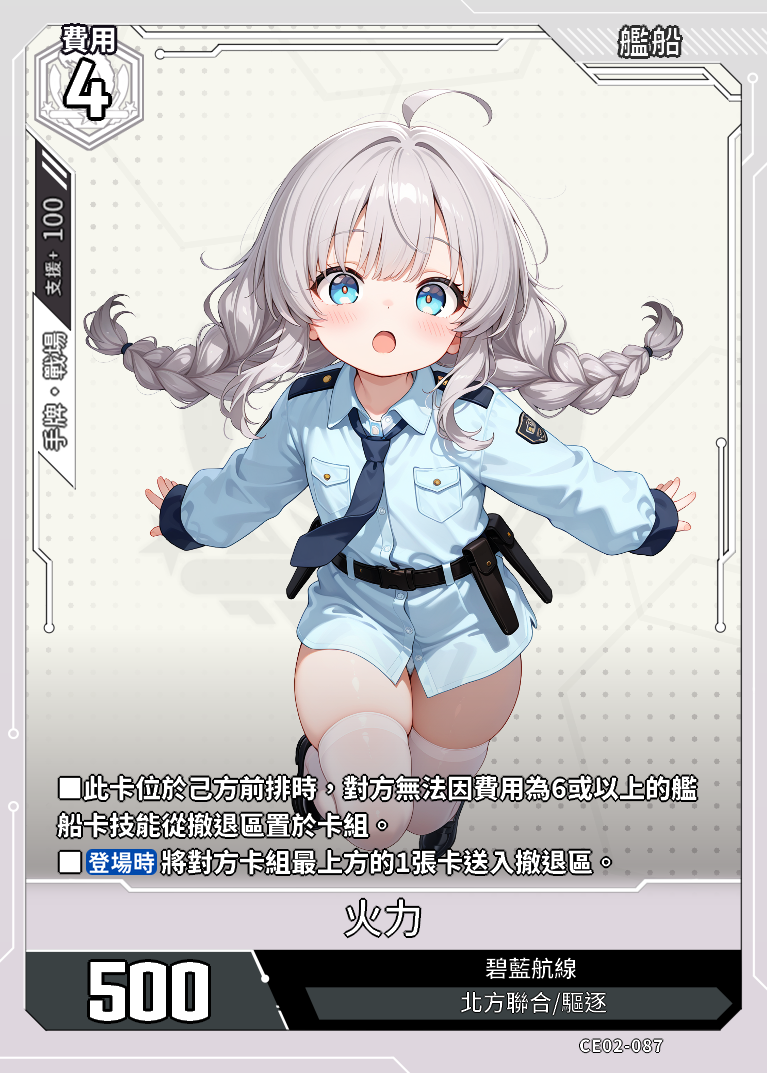
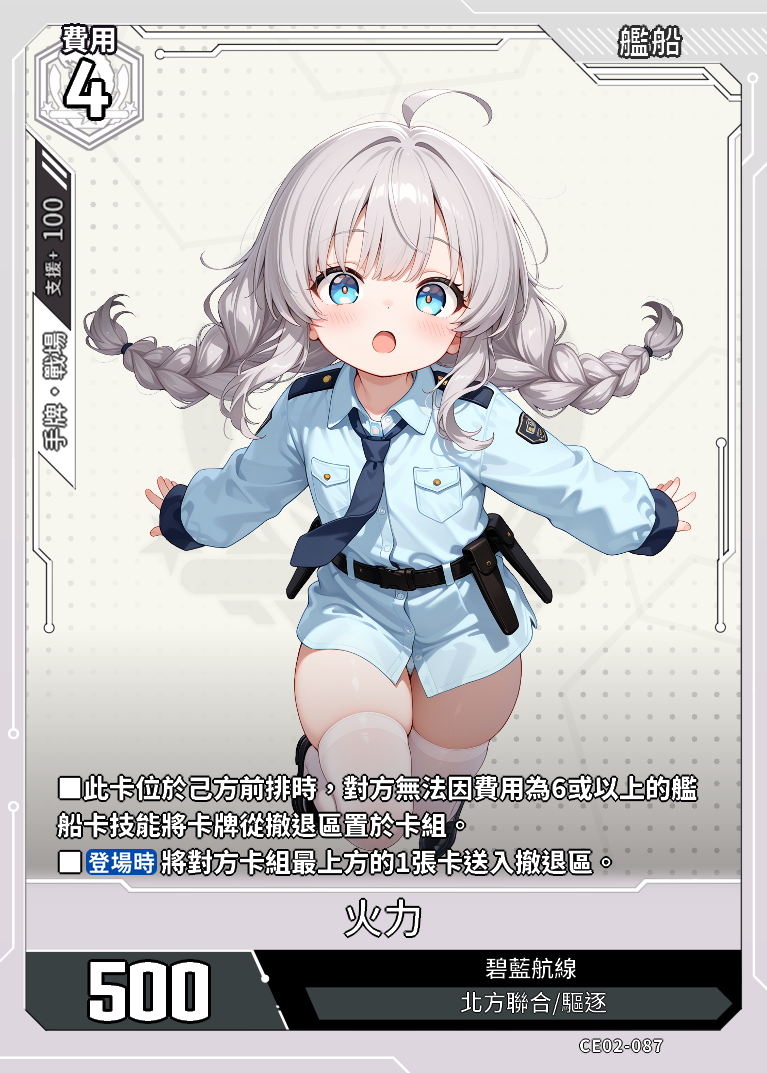
修錯字

Changed region(s): [[0.2099, 0.7381, 0.5997, 0.7996]]

diff --git a/data.js b/data.js
@@ -26143,7 +26143,7 @@ const cards = [
             "支援範圍": "手牌·戰場",
             "支援值": "100"
         },
-        "card_effect": "■此卡位於己方前排時，對方無法因費用為6或以上的艦船卡技能從撤退區置於卡組。■【登場時】將對方卡組最上方的1張卡送入撤退區。",
+        "card_effect": "■此卡位於己方前排時，對方無法因費用為6或以上的艦船卡技能將卡牌從撤退區置於卡組。■【登場時】將對方卡組最上方的1張卡送入撤退區。",
         "acquisition_method": "CE02-預覽測試"
     },
 	{
